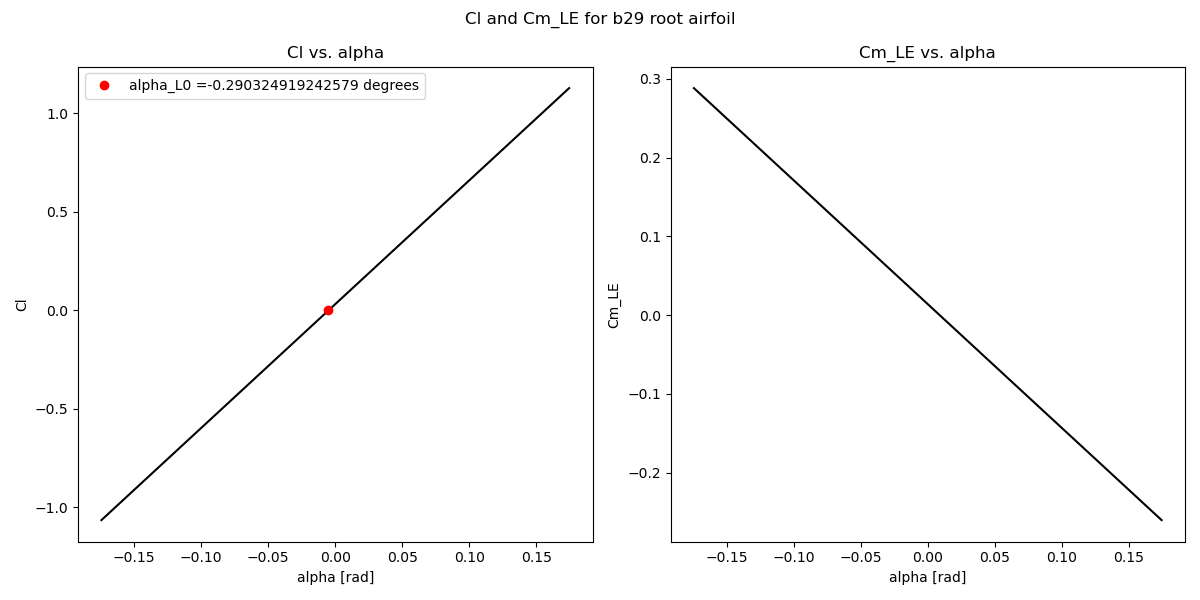
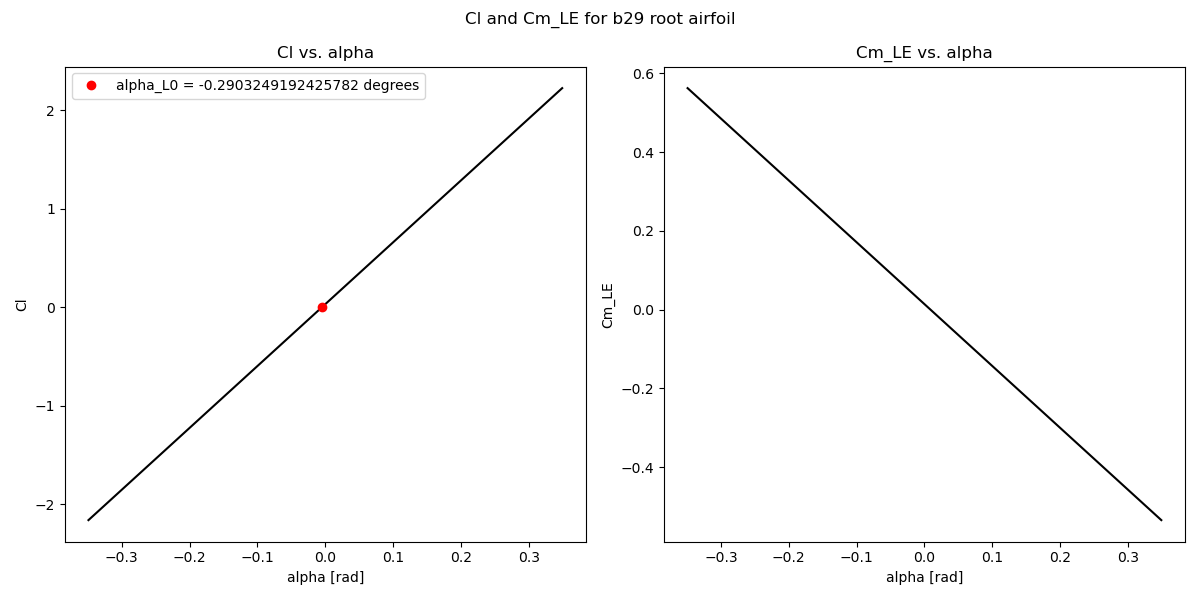
made plots look gooder

diff --git a/parameters.py b/parameters.py
@@ -4,76 +4,107 @@ import numpy as np
 import sympy as sp
 from scipy.interpolate import CubicSpline
 
+
 class Airfoil:
-    def __init__(self, chord_length, max_thickness, max_thickness_loc, max_camber, max_camber_loc, name = None):
+    def __init__(
+        self,
+        chord_length,
+        max_thickness,
+        max_thickness_loc,
+        max_camber,
+        max_camber_loc,
+    ):
         self.chord_length = chord_length
-        self.max_thickness = max_thickness # t
+        self.max_thickness = max_thickness  # t
         self.max_thickness_loc = max_thickness_loc
-        self.max_camber = max_camber # m
-        self.max_camber_loc = max_camber_loc # p
+        self.max_camber = max_camber  # m
+        self.max_camber_loc = max_camber_loc  # p
 
     def process_coords(self, filename):
-        coords = np.loadtxt(filename, delimiter = ',')
+        coords = np.loadtxt(filename, delimiter=",")
         self.x_coords = self.chord_length * coords[:, 0]
         self.y_coords = self.chord_length * coords[:, 1]
 
         self.xs = np.linspace(0, self.chord_length, 1000)
         self.top_curve = (CubicSpline(self.x_coords[:19], self.y_coords[:19]))(self.xs)
-        self.bottom_curve = (CubicSpline(self.x_coords[19:], self.y_coords[19:]))(self.xs)
-        self.mean_chord_line = 0.5 * (self.top_curve + self.bottom_curve) # z-bar
+        self.bottom_curve = (CubicSpline(self.x_coords[19:], self.y_coords[19:]))(
+            self.xs
+        )
+        self.mean_chord_line = 0.5 * (self.top_curve + self.bottom_curve)  # z-bar
 
-    def thin_airfoil_theory(self, alpha, load = '', save = ''):
-        x, phi = sp.symbols('x phi')
+    def thin_airfoil_theory(self, alpha, load="", save=""):
+        x, phi = sp.symbols("x phi")
 
         # i sampled a cubic spline along a sequence of x's. to make differentiating easier in sympy, we're going to fit it to a 7th degree polynomial.
-        
-        self.zbar = (np.polyfit(self.xs, self.mean_chord_line, 7) @ np.vstack([x**7, x**6, x**5, x**4, x**3, x**2, x, 1]))[0]
 
-        dzbar_dx = (sp.diff(self.zbar, x)).subs(x, (self.chord_length / 2) * (1 - sp.cos(phi)))
+        self.zbar = (
+            np.polyfit(self.xs, self.mean_chord_line, 7)
+            @ np.vstack([x**7, x**6, x**5, x**4, x**3, x**2, x, 1])
+        )[0]
 
-        if (load == ''):
+        dzbar_dx = (sp.diff(self.zbar, x)).subs(
+            x, (self.chord_length / 2) * (1 - sp.cos(phi))
+        )
+
+        if load == "":
             self.A0_minus_alpha = (-1 / np.pi) * sp.integrate(dzbar_dx, (phi, 0, np.pi))
-            print('A0 calculated')
-            self.A1 = (2 / np.pi) * sp.integrate(dzbar_dx * sp.cos(phi), (phi, 0, np.pi))
-            print('A1 calculated')
-            self.A2 = (2 / np.pi) * sp.integrate(dzbar_dx * sp.cos(2 * phi), (phi, 0, np.pi))
-            print('A2 calculated')
-            if (save != ''):
-                print('Saving to data/fourier_coeffs/' + save)
-                np.savez('data/fourier_coeffs/' + save, A0_minus_alpha = self.A0_minus_alpha, A1 = self.A1, A2 = self.A2)
-                print('fourier coeffs saved to data/fourier_coeffs/' + save)
+            print("A0 calculated")
+            self.A1 = (2 / np.pi) * sp.integrate(
+                dzbar_dx * sp.cos(phi), (phi, 0, np.pi)
+            )
+            print("A1 calculated")
+            self.A2 = (2 / np.pi) * sp.integrate(
+                dzbar_dx * sp.cos(2 * phi), (phi, 0, np.pi)
+            )
+            print("A2 calculated")
+            if save != "":
+                print("Saving to data/fourier_coeffs/" + save)
+                np.savez(
+                    "data/fourier_coeffs/" + save,
+                    A0_minus_alpha=self.A0_minus_alpha,
+                    A1=self.A1,
+                    A2=self.A2,
+                )
+                print("fourier coeffs saved to data/fourier_coeffs/" + save)
         else:
-            print('Loading from data/fourier_coeffs/')
-            data = np.load('data/fourier_coeffs/' + load + '.npz', allow_pickle = True)
-            self.A0_minus_alpha = data['A0_minus_alpha']
-            self.A1 = data['A1']
-            self.A2 = data['A2']    
+            print("Loading from data/fourier_coeffs/")
+            data = np.load("data/fourier_coeffs/" + load + ".npz", allow_pickle=True)
+            self.A0_minus_alpha = data["A0_minus_alpha"].astype(np.float64)
+            self.A1 = data["A1"].astype(np.float64)
+            self.A2 = data["A2"].astype(np.float64)
 
         self.Cl = np.pi * (2 * (self.A0_minus_alpha + alpha) + self.A1)
-        self.Cm_LE = - (self.Cl / 4) + (np.pi / 4) * (self.A2 - self.A1)
+        self.Cm_LE = -(self.Cl / 4) + (np.pi / 4) * (self.A2 - self.A1)
+        self.dCl_dalpha, self.Cl_0 = np.polyfit(alpha, self.Cl, 1)
+
+        self.Fl = 0.5 * self.Cl * density * (cruise_speed ** 2) * wing.wing_area
+        self.dFl_dalpha, self.Fl_0 = np.polyfit(alpha, self.Fl, 1)
 
 class Wing:
-    def __init__(self, root_airfoil, tip_airfoil, wingspan, wing_area, twist,):
+    def __init__(
+        self,
+        root_airfoil,
+        tip_airfoil,
+        wingspan,
+        wing_area,
+        twist,
+    ):
         self.root_airfoil = root_airfoil
         self.tip_airfoil = tip_airfoil
         self.taper_ratio = tip_airfoil.chord_length / root_airfoil.chord_length
         self.wingspan = wingspan
         self.wing_area = wing_area
-        self.aspect_ratio = wingspan ** 2 / wing_area
+        self.aspect_ratio = wingspan**2 / wing_area
         self.twist = twist
-
-class Aircraft:
-    def __init__(self, max_takeoff_weight, cruise_speed):
-        self.max_takeoff_weight = max_takeoff_weight
-        self.cruise_speed = cruise_speed
 
 # chord lengths were estimated using a three-view pic of the b29
 b29_root = Airfoil(5.5, 0.22, 0.302, 0.017, 0.302)
 b29_tip = Airfoil(2.2, 0.09, 0.30, 0.022, 0.30)
-wing = Wing(b29_root, b29_tip, 43.05, 161.3, -1 * np.pi/180)
-plane = Aircraft(133500 * 4.44822, 220 * 0.44704)
+wing = Wing(b29_root, b29_tip, 43.05, 161.3, -1 * np.pi / 180)
 
-density = 0.377 # kg/m^3
+max_takeoff_weight = 133500 * 4.44822 # N
+cruise_speed = 220 * 0.44704 # m/s
+density = 0.387 # kg/m^3, at 10000 m up
 
-b29_root.process_coords('data/b29_root.csv')
-b29_tip.process_coords('data/b29_tip.csv')
+b29_root.process_coords("data/b29_root.csv")
+b29_tip.process_coords("data/b29_tip.csv")

diff --git a/1_thin_airfoil_theory.py b/1_thin_airfoil_theory.py
@@ -3,74 +3,109 @@
 # Roughly analogous to HW 4 Problem 4
 
 import numpy as np
-import sympy as sp
-import math as math
 import matplotlib.pyplot as plt
 from parameters import *
 
-alpha = np.linspace(-np.deg2rad(10), np.deg2rad(10), 100)
-b29_root.thin_airfoil_theory(alpha, load = 'b29_root')
-b29_tip.thin_airfoil_theory(alpha, load = 'b29_tip')
+alpha = np.linspace(-np.deg2rad(20), np.deg2rad(20), 200)
+b29_root.thin_airfoil_theory(alpha, load="b29_root")
+b29_tip.thin_airfoil_theory(alpha, load="b29_tip")
 
 # to redo fourier coeff integration, uncomment
 # b29_root.thin_airfoil_theory(alpha, save = 'b29_root')
 # b29_tip.thin_airfoil_theory(alpha, save = 'b29_tip')
 
 fig, ax = plt.subplots(1, 2, figsize=(12, 6))
-fig.suptitle('Cl and Cm_LE for b29 root airfoil')
+fig.suptitle("Cl and Cm_LE for b29 root airfoil")
 
 ax1 = ax[0]
-ax1.plot(alpha, b29_root.Cl, color = 'k')
-ax1.plot(-(b29_root.Cl[0] - ((b29_root.Cl[-1] - b29_root.Cl[0])/(alpha[-1] - alpha[0])) * alpha[0]) /  ((b29_root.Cl[-1] - b29_root.Cl[0])/(alpha[-1] - alpha[0])), 0, 'ro', label = 'alpha_L0 =' + str(math.degrees(-(b29_root.Cl[0] - ((b29_root.Cl[-1] - b29_root.Cl[0])/(alpha[-1] - alpha[0])) * alpha[0]) /  ((b29_root.Cl[-1] - b29_root.Cl[0])/(alpha[-1] - alpha[0])))) + ' degrees')
-ax1.set_xlabel('alpha [rad]')
-ax1.set_ylabel('Cl')
+ax1.plot(alpha, b29_root.Cl, color="k")
+ax1.plot(-b29_root.Cl_0 / b29_root.dCl_dalpha,
+    0,
+    "ro",
+    label="alpha_L0 = "
+    + str(np.rad2deg(-b29_root.Cl_0 / b29_root.dCl_dalpha))
+    + " degrees",
+)
+ax1.set_xlabel("alpha [rad]")
+ax1.set_ylabel("Cl")
 ax1.legend()
-ax1.set_title('Cl vs. alpha')
+ax1.set_title("Cl vs. alpha")
 
 ax2 = ax[1]
-ax2.plot(alpha, b29_root.Cm_LE, color = 'k')
-ax2.set_xlabel('alpha [rad]')
-ax2.set_ylabel('Cm_LE')
-ax2.set_title('Cm_LE vs. alpha')
+ax2.plot(alpha, b29_root.Cm_LE, color="k")
+ax2.set_xlabel("alpha [rad]")
+ax2.set_ylabel("Cm_LE")
+ax2.set_title("Cm_LE vs. alpha")
 plt.tight_layout()
-plt.savefig('plots/b29_root_2d_airfoil_behavior.png')
+plt.savefig("plots/b29_root_2d_airfoil_behavior.png")
 plt.show()
 
 fig, ax = plt.subplots(1, 2, figsize=(12, 6))
-fig.suptitle('Cl and Cm_LE for b29 tip airfoil')
+fig.suptitle("Cl and Cm_LE for b29 tip airfoil")
 
 ax1 = ax[0]
-ax1.plot(alpha, b29_tip.Cl, color = 'k')
-ax1.plot(-(b29_tip.Cl[0] - ((b29_tip.Cl[-1] - b29_tip.Cl[0])/(alpha[-1] - alpha[0])) * alpha[0]) /  ((b29_tip.Cl[-1] - b29_tip.Cl[0])/(alpha[-1] - alpha[0])), 0, 'ro', label = 'alpha_L0 =' + str(math.degrees(-(b29_tip.Cl[0] - ((b29_tip.Cl[-1] - b29_tip.Cl[0])/(alpha[-1] - alpha[0])) * alpha[0]) /  ((b29_tip.Cl[-1] - b29_tip.Cl[0])/(alpha[-1] - alpha[0])))) + ' degrees')
-ax1.set_xlabel('alpha [rad]')
-ax1.set_ylabel('Cl')
+ax1.plot(alpha, b29_tip.Cl, color="k")
+ax1.plot(-b29_tip.Cl_0 / b29_tip.dCl_dalpha,
+    0,
+    "ro",
+    label="alpha_L0 = "
+    + str(np.rad2deg(-b29_tip.Cl_0 / b29_tip.dCl_dalpha))
+    + " degrees",
+)
+ax1.set_xlabel("alpha [rad]")
+ax1.set_ylabel("Cl")
 ax1.legend()
-ax1.set_title('Cl vs. alpha')
+ax1.set_title("Cl vs. alpha")
 
 ax2 = ax[1]
-ax2.plot(alpha, b29_tip.Cm_LE, color = 'k')
-ax2.set_xlabel('alpha [rad]')
-ax2.set_ylabel('Cm_LE')
-ax2.set_title('Cm_LE vs. alpha')
+ax2.plot(alpha, b29_tip.Cm_LE, color="k")
+ax2.set_xlabel("alpha [rad]")
+ax2.set_ylabel("Cm_LE")
+ax2.set_title("Cm_LE vs. alpha")
 plt.tight_layout()
-plt.savefig('plots/b29_tip_2d_airfoil_behavior.png')
+plt.savefig("plots/b29_tip_2d_airfoil_behavior.png")
 plt.show()
 
 fig, ax = plt.subplots(1, 2, figsize=(12, 6))
-fig.suptitle('Fl for b29 root, b29 tip')
+fig.suptitle("Fl for b29 root, b29 tip")
 
 ax1 = ax[0]
-ax1.plot(alpha, 1/2 * b29_root.Cl * density * (plane.cruise_speed**2) * wing.wing_area, color = 'k')
-ax1.set_xlabel('alpha [rad]')
-ax1.set_ylabel('Fl [N]')
+ax1.plot(
+    alpha,
+    b29_root.Fl,
+    color="k",
+)
+ax1.plot(-b29_root.Fl_0 / b29_root.dFl_dalpha,
+    0,
+    "ro",
+    label="alpha_L0 = "
+    + str(np.rad2deg(-b29_root.Fl_0 / b29_root.dFl_dalpha))
+    + " degrees",
+)
+ax1.plot(alpha, max_takeoff_weight * np.ones_like(alpha), '-.', label = 'max takeoff weight')
+ax1.set_xlabel("alpha [rad]")
+ax1.set_ylabel("Fl [N]")
 ax1.legend()
-ax1.set_title('Fl vs. alpha, b29_root')
+ax1.set_title("Fl vs. alpha, b29_root")
 
 ax2 = ax[1]
-ax2.plot(alpha, 1/2 * b29_tip.Cl * density * (plane.cruise_speed**2) * wing.wing_area, color = 'k')
-ax2.set_xlabel('alpha [rad]')
-ax2.set_ylabel('Fl [N]')
-ax2.set_title('Fl vs. alpha, b29_tip')
+ax2.plot(
+    alpha,
+    b29_tip.Fl,
+    color="k",
+)
+ax2.plot(-b29_tip.Fl_0 / b29_tip.dFl_dalpha,
+    0,
+    "ro",
+    label="alpha_L0 = "
+    + str(np.rad2deg(-b29_tip.Fl_0 / b29_tip.dFl_dalpha))
+    + " degrees",
+)
+ax2.plot(alpha, max_takeoff_weight * np.ones_like(alpha), '-.', label = 'max takeoff weight')
+ax2.set_xlabel("alpha [rad]")
+ax2.set_ylabel("Fl [N]")
+ax2.set_title("Fl vs. alpha, b29_tip")
+ax2.legend()
 plt.tight_layout()
-plt.savefig('plots/lift_force_comparison.png')
+plt.savefig("plots/lift_force_comparison.png")
 plt.show()

diff --git a/0_airfoil_plotting.py b/0_airfoil_plotting.py
@@ -4,27 +4,27 @@ import matplotlib.pyplot as plt
 from parameters import *
 
 fig, ax = plt.subplots(2, 1, figsize=(12, 6))
-fig.suptitle('airfoil profiles')
+fig.suptitle("airfoil profiles")
 
 ax1 = ax[0]
-ax1.scatter(b29_root.x_coords, b29_root.y_coords, marker = 'o', label = 'airfoil points')
-ax1.plot(b29_root.xs, b29_root.top_curve, color = 'k')
-ax1.plot(b29_root.xs, b29_root.bottom_curve, color = 'k')
-ax1.plot(b29_root.xs, b29_root.mean_chord_line, color = 'r', label = 'mean camber line')
+ax1.scatter(b29_root.x_coords, b29_root.y_coords, marker="o", label="airfoil points")
+ax1.plot(b29_root.xs, b29_root.top_curve, color="k")
+ax1.plot(b29_root.xs, b29_root.bottom_curve, color="k")
+ax1.plot(b29_root.xs, b29_root.mean_chord_line, color="r", label="mean camber line")
 ax1.legend()
-ax1.set_xlabel('x')
-ax1.set_ylabel('y')
-ax1.set_title('b29 root airfoil')
+ax1.set_xlabel("x")
+ax1.set_ylabel("y")
+ax1.set_title("b29 root airfoil")
 
 ax2 = ax[1]
-ax2.scatter(b29_tip.x_coords, b29_tip.y_coords, marker = 'o', label = 'airfoil points')
-ax2.plot(b29_tip.xs, b29_tip.top_curve, color = 'k')
-ax2.plot(b29_tip.xs, b29_tip.bottom_curve, color = 'k')
-ax2.plot(b29_tip.xs, b29_tip.mean_chord_line, color = 'r', label = 'mean camber line')
+ax2.scatter(b29_tip.x_coords, b29_tip.y_coords, marker="o", label="airfoil points")
+ax2.plot(b29_tip.xs, b29_tip.top_curve, color="k")
+ax2.plot(b29_tip.xs, b29_tip.bottom_curve, color="k")
+ax2.plot(b29_tip.xs, b29_tip.mean_chord_line, color="r", label="mean camber line")
 ax2.legend()
-ax2.set_xlabel('x')
-ax2.set_ylabel('y')
-ax2.set_title('b29 tip airfoil')
+ax2.set_xlabel("x")
+ax2.set_ylabel("y")
+ax2.set_title("b29 tip airfoil")
 plt.tight_layout()
-plt.savefig('plots/airfoil_plots.png')
+plt.savefig("plots/airfoil_plots.png")
 plt.show()
